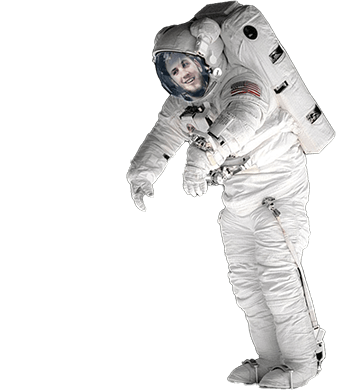
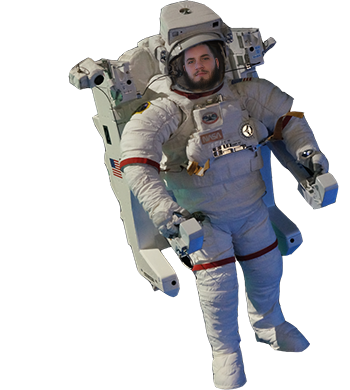
Astronaut Animation
+ added some sweet-as animation to the astronauts

diff --git a/team/index.html b/team/index.html
@@ -143,54 +143,83 @@
                 <br/>
             </div>
 
-            <div class="pure-g team">
-            <div class="pure-u-1-3 astro-holder">
-                <!-- <div class="team-member">
-                    <h4>Jordan McRae</h4>
-                    <h5>CTO & Co-Founder </h5>
-                </div> -->
-                <img class="astronaut" src="../img/astro-jordan.png"/>
+            <div class="pure-g team scrollme">
+                <div class="pure-u-1-3 astro-holder animateme"
+                        data-when="span"
+                        data-from="0"
+                        data-to="1"
+                        data-translatey="130"
+                        data-easing="linear"
+                    >
+                    <!-- <div class="team-member">
+                        <h4>Jordan McRae</h4>
+                        <h5>CTO & Co-Founder </h5>
+                    </div> -->
+                    <img class="astronaut" src="../img/astro-jordan.png"/>
+                </div>
+                <div class="pure-u-1-3 astro-holder animateme"
+                        data-when="span"
+                        data-from="0"
+                        data-to="1"
+                        data-translatex="80"
+                        data-translatey="20"
+                        data-rotatez="-10"
+                        data-easing="linear"
+                    >
+                    <!-- <div class="team-member">
+                        <h4>James Parr</h4>
+                        <h5>CEO & Co-Founder </h5>
+                    </div> -->
+                    <img class="astronaut" src="../img/astro-james.png"/>
+                </div>
+                <div class="pure-u-1-3 astro-holder animateme"
+                        data-when="span"
+                        data-from="1"
+                        data-to="0"
+                        data-rotatez="50"
+                        data-translatey="100"
+                        data-easing="linear"
+                    >
+                    <!-- <div class="team-member">
+                        <h4>Jon Rushton</h4>
+                        <h5>Industrial Designer </h5>
+                    </div> -->
+                    <img class="astronaut" src="../img/astro-jon.png"/>
+                </div>
+                <div class="pure-u-1-8 astro-holder">
+                </div>
+                <div class="pure-u-1-3 astro-holder animateme"
+                        data-when="span"
+                        data-from="1"
+                        data-to="0.1"
+                        data-translatex="50"
+                        data-translatey="30"
+                        data-easing="linear"
+                    >
+                    <!-- <div class="team-member">
+                        <h4>Eleanor Harding</h4>
+                        <h5>UX Designer </h5>
+                    </div> -->
+                    <img class="astronaut" src="../img/astro-eleanor.png"/>
+                </div>
+                <div class="pure-u-1-8 astro-holder">
+                </div>
+                <div class="pure-u-1-3 astro-holder animateme"
+                        data-when="span"
+                        data-from="1"
+                        data-to="0"
+                        data-translatex="50"
+                        data-rotatez="-10"
+                        data-translatey="100"
+                        data-easing="linear"
+                    >
+                    <!-- <div class="team-member">
+                        <h4>Leo Silverberg</h4>
+                        <h5>Interaction Designer </h5>
+                    </div> -->
+                    <img class="astronaut" src="../img/astro-leo.png"/>
+                </div>
             </div>
-            <!-- <div class="pure-u-1-5 astro-holder">
-                 <div class="team-member">
-                    <h4>Anchal Bassi</h4>
-                    <h5>Project Manager</h5>
-                </div> 
-                <img class="astronaut" src="../img/astro-anchal.png"/>
-            </div> -->
-            <div class="pure-u-1-3 astro-holder">
-                <!-- <div class="team-member">
-                    <h4>James Parr</h4>
-                    <h5>CEO & Co-Founder </h5>
-                </div> -->
-                <img class="astronaut" src="../img/astro-james.png"/>
-            </div>
-            <div class="pure-u-1-3 astro-holder">
-                <!-- <div class="team-member">
-                    <h4>Jon Rushton</h4>
-                    <h5>Industrial Designer </h5>
-                </div> -->
-                <img class="astronaut" src="../img/astro-jon.png"/>
-            </div>
-            <div class="pure-u-1-8 astro-holder">
-            </div>
-            <div class="pure-u-1-3 astro-holder">
-                <!-- <div class="team-member">
-                    <h4>Eleanor Harding</h4>
-                    <h5>UX Designer </h5>
-                </div> -->
-                <img class="astronaut" src="../img/astro-eleanor.png"/>
-            </div>
-            <div class="pure-u-1-8 astro-holder">
-            </div>
-            <div class="pure-u-1-3 astro-holder">
-                <!-- <div class="team-member">
-                    <h4>Leo Silverberg</h4>
-                    <h5>Interaction Designer </h5>
-                </div> -->
-                <img class="astronaut" src="../img/astro-leo.png"/>
-            </div>
-        </div>
 
         </section>
 
